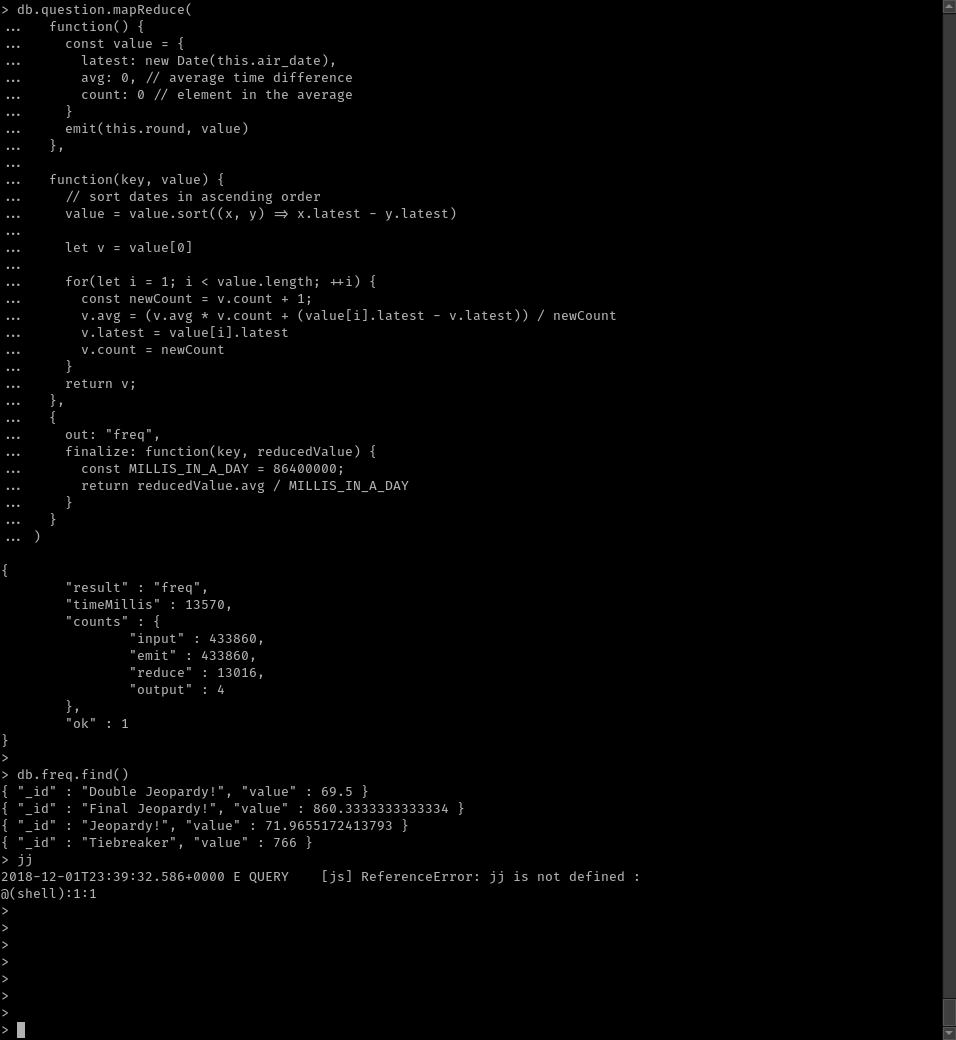
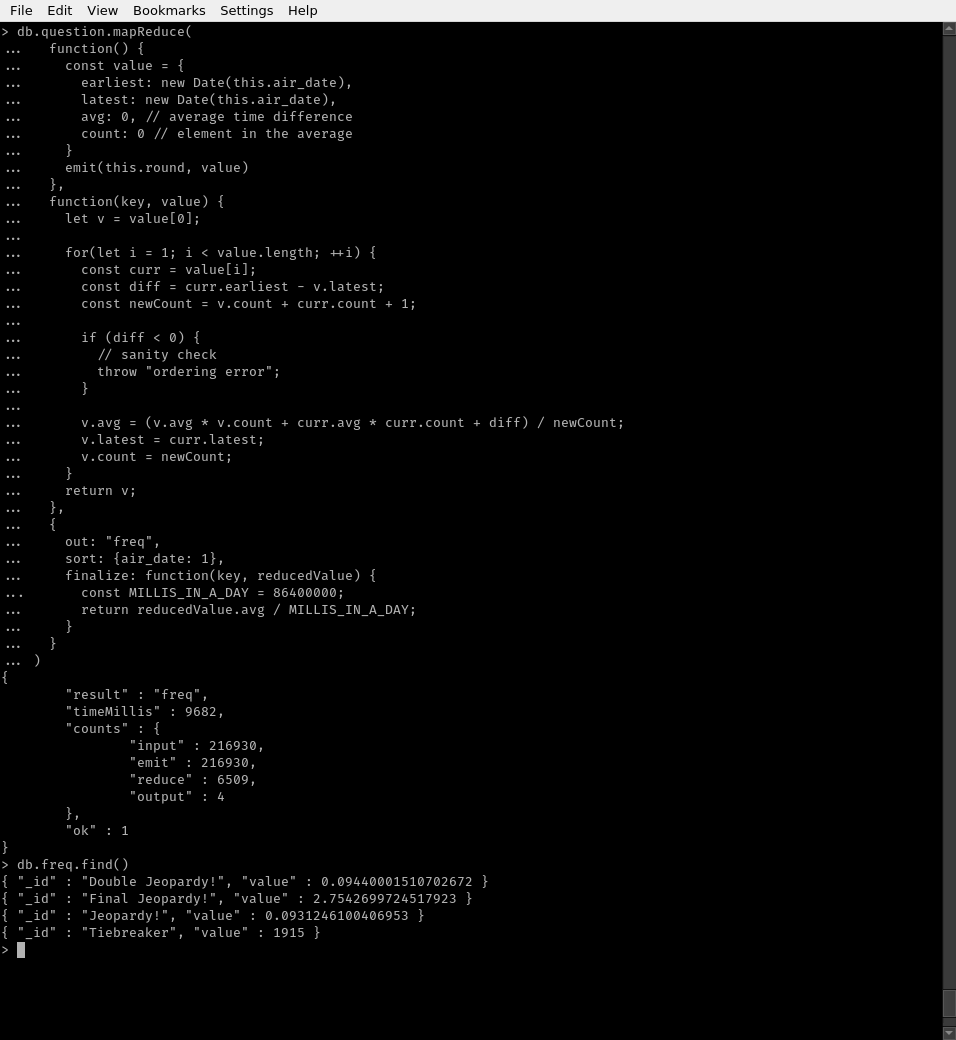
Write rest of the report

diff --git a/4_mongo/sprawozdanie/GeislerWojciech.md b/4_mongo/sprawozdanie/GeislerWojciech.md
@@ -56,3 +56,232 @@ Import:
 ```bash
 mongoimport --db jeopardy --collection question --type json --file questions.json
 ```
+
+## Zapytania
+
+### Find
+Zapytanie ma na celu znalezienie wzmianek o Polsce w pytaniach bądź odpowiedziach na nie. Pytania zwracane sę w porządku chronologicznym nagrań.
+
+```js
+// Wszystkie pytania gdzie w pytaniu lub odpowiedzi znajduje się słowo "Poland"
+// posortowane w kolejności odbywania się nagrań
+use jeopardy
+db.question.
+  find({
+    $or: [
+      {question: {$regex: /Poland/}},
+      {answer: {$regex: /Poland/}}]
+  }).
+  sort({show_number: 1})
+```
+
+![Wyniki](./images/1_console_poland.png)\ 
+
+### Agregacja
+Zapytanie ma na celu określenie liczby nagrań odbywających się w danym roku i numeru pierwszego z nich. Wykorzstuje dwukrotnie parametr `$group` aby zliczać 
+unikalne `show_number` zamiast wszystkich pytań.
+
+Wyniki sortowane są według malejącej liczby nagrań, a w drugiej kolejności w odwróconym porządku chronologicznym.
+
+```js
+use jeopardy
+db.question.aggregate([
+        {$addFields:
+          {
+            year: {$year: {$toDate: "$air_date"}},
+            show_number: {$toInt: "$show_number"}
+          }
+        },
+        {$group:
+          {_id: "$show_number", year: {$min: "$year"}}
+        },
+        {$group:
+          {_id: "$year", count: {$sum: 1}, first_show: {$min: "$_id"}}
+        },
+        {$sort:
+          {count: -1, first_show: -1}
+        }
+])
+```
+
+![Wyniki](./images/2_yearly.png)\ 
+
+### MapReduce
+
+Zapytanie inspirowane fragmentem opisu zbioru: "Note: Tiebreaker questions do happen but they're very rare (like once every 20 years)".
+Ma na celu wyznaczenie średniej liczby dni pomiędzy pytaniami każdego rodzaju.
+
+Ponieważ wykorzystuje parametr `sort`, konieczne było przed jego wykonaniem utworzenie indexu. W przeciwnym razie baza zgłaszała błąd przekroczenia maksymalnego zużycia pamięci:
+
+```js
+db.question.createIndex({air_date: 1})
+```
+
+Dzięki użyciu sortowania, redukowane zakresy pytań są rozłączne. Pozwala to na redukcję kilku średnich częstotliwości do jednej.
+
+Funkcja `finalize` pozwaliła wyłuskać z roboczego formatu poszukiwaną informację - częstotliwość występowania pytań (w dniach).
+
+```js
+use jeopardy
+db.question.mapReduce(
+  function() {
+    const value = {
+      earliest: new Date(this.air_date),
+      latest: new Date(this.air_date),
+      avg: 0, // average time difference
+      count: 0 // elements in the average
+    }
+    emit(this.round, value)
+  },
+  function(key, value) {
+    let v = value[0];
+
+    for(let i = 1; i < value.length; ++i) {
+      const curr = value[i];
+      const diff = curr.earliest - v.latest;
+      const newCount = v.count + curr.count + 1;
+
+      if (diff < 0) {
+        // sanity check
+        throw "ordering error";
+      }
+
+      v.avg = (v.avg * v.count + curr.avg * curr.count + diff) / newCount;
+      v.latest = curr.latest;
+      v.count = newCount;
+    }
+    return v;
+  },
+  {
+    out: "freq",
+    sort: {air_date: 1},
+    finalize: function(key, reducedValue) {
+      const MILLIS_IN_A_DAY = 86400000;
+      return reducedValue.avg / MILLIS_IN_A_DAY;
+    }
+  }
+)
+```
+
+
+Otrzymane wyniki wskazuję, że pytania "Tiebreaker" zdarzają się średnio co 1915 dni, czyli nieco ponad 5 lat.
+
+![Wyniki](./images/3_mapreduce.png)\ 
+
+
+## Aplikacja w pythonie
+
+Kod aplikacji znajduje się w pliku `app.py`. W katalogu `env` znajduje się wirtualne środowisko pythona z zainstalowanym pakietem `pymongo`. Skrypt `run.sh` aktywuje to środowisko i uruchamia `app.py`.
+
+Po uruchomieniu aplikacja w pierwszej kolejności wykonuje odpowiednik zapytania (2):
+
+```py
+def yearly_report(collection):
+    """
+    Return generator for yearly count of shows
+    aired and their initial no.
+    """
+    return collection.aggregate([
+        {'$addFields': {
+            'year': {'$year': {'$toDate': "$air_date"}},
+            'show_number': {'$toInt': "$show_number"}
+        }},
+        {'$group':
+         {'_id': "$show_number", 'year': {'$min': "$year"}}
+         },
+        {'$group':
+         {'_id': "$year", 'count': {'$sum': 1}, 'first_show': {'$min': "$_id"}}
+         },
+        {'$sort': SON([('count', -1), ('first_show', -1)])}
+    ])
+```
+
+![python](./images/py1_yearly.png)\ 
+
+
+Następnie uruchamiane jest mapReduce zliczające średnie częstotliwości pytań:
+
+```py
+def frequencies(collection):
+    # using "sort" parameter in mapReduce requires an index
+    # as the database hits RAM usage limit otherwise
+    collection.create_index([('air_date', 1)])
+
+    mapper = Code("""
+        function() {
+            const value = {
+            earliest: new Date(this.air_date),
+            latest: new Date(this.air_date),
+            avg: 0, // average time difference
+            count: 0 // element in the average
+            }
+            emit(this.round, value)
+        }
+    """)
+
+    reducer = Code("""
+        function(key, value) {
+            // sort dates in ascending order
+            let v=value[0]
+
+            for(let i=1; i < value.length; ++i) {
+                const curr=value[i]
+                const diff=curr.earliest - v.latest
+                const newCount=v.count + curr.count + 1
+
+                if (diff < 0) {
+                    // sanity check
+                    throw "ordering error"
+                }
+
+                v.avg=(v.avg * v.count + curr.avg * curr.count + diff) / newCount
+                v.latest=curr.latest
+                v.count=newCount
+            }
+            return v
+        }
+    """)
+
+    finalizer = Code("""
+        function(key, reducedValue) {
+            const MILLIS_IN_A_DAY=86400000
+            return reducedValue.avg / MILLIS_IN_A_DAY
+        }
+    """)
+
+    resultscol = collection.map_reduce(
+        mapper, reducer, "freq", sort=SON([("air_date", 1)]), finalize=finalizer)
+    return resultscol
+```
+
+![MapReduce](images/py2_mapreduce.png)
+
+Na koniec wykonywany jest odpowiednik podstawowego zapytania "find". Użytkownik ma możliwość podania własnego wyrazu do wyszukania. Wciśnięcie "enter" powoduje użycie domyślnego słowa "Poland".
+
+```py
+def find_mentions(collection, word):
+    """
+    Find mentions of given word in the question or answer
+    """
+
+    regex = re.compile(word)
+    return collection \
+        .find({'$or': [{'question': regex}, {'answer': regex}]}) \
+        .sort('show_number')
+
+
+def format_question(question):
+    """
+    Pretty format a question document
+    """
+    return """category: {q[category]}
+show no:  {q[show_number]}
+date:     {q[air_date]}
+round:    {q[round]}
+value:    {q[value]}
+question: {q[question]}
+answer:   {q[answer]}
+""".format(q=question)
+```
+
+![Find](./images/py3_simple.png)
